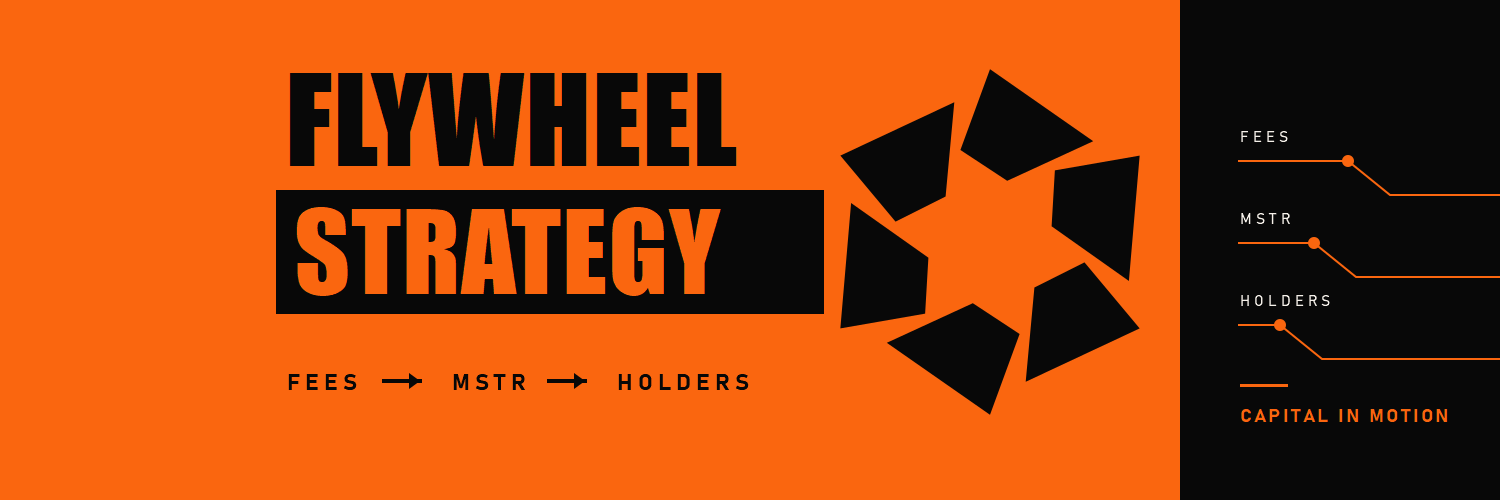
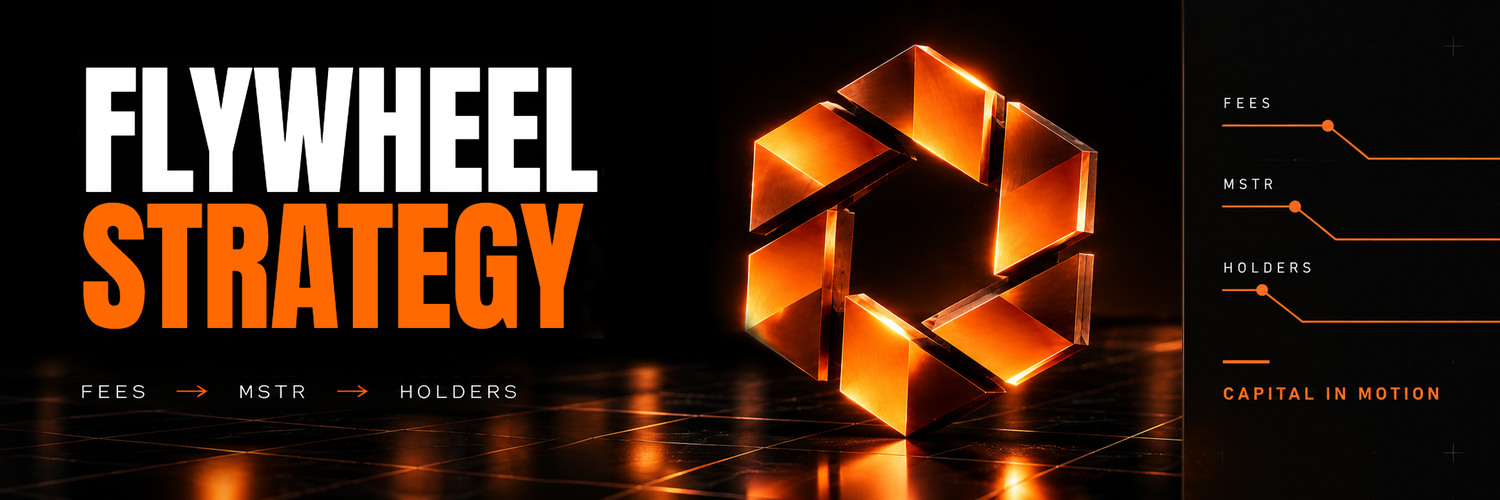
Refresh public brand visuals

diff --git a/README.md b/README.md
@@ -3,12 +3,15 @@
 </p>
 
 <p align="center">
-  <strong>CAPITAL IN MOTION</strong><br>
-  Trading fees build MSTR rewards for holders and a community-governed strategic reserve
+  <img src="assets/brand/final/x-avatar-400.png" alt="FLYWHEEL STRATEGY mark" width="104">
 </p>
 
+<h1 align="center">FLYWHEEL STRATEGY</h1>
+
 <p align="center">
-  <code>ROBINHOOD CHAIN</code>&nbsp;&nbsp;·&nbsp;&nbsp;<code>ETH PAIR</code>&nbsp;&nbsp;·&nbsp;&nbsp;<code>MSTR REWARDS</code>&nbsp;&nbsp;·&nbsp;&nbsp;<code>NO STAKING</code>
+  <strong>HOLD CAPITAL&nbsp;&nbsp;·&nbsp;&nbsp;ACCUMULATE MSTR</strong><br>
+  Trading fees continuously build MSTR rewards for passive holders and a separate holder-governed reserve<br>
+  <strong>CAPITAL IN MOTION</strong>
 </p>
 
 <p align="center">
@@ -19,7 +22,7 @@
 
 ---
 
-## ■ THE FLYWHEEL
+## THE FLYWHEEL
 
 | 01 — TRADE | 02 — ACCUMULATE | 03 — REWARD | 04 — DECIDE |
 |:--|:--|:--|:--|
@@ -30,7 +33,7 @@ TRADING FEES  ──►  MSTR  ──►  HOLDER REWARDS
                          └──►  STRATEGIC RESERVE
 ```
 
-## ■ FEE FLOW
+## FEE FLOW
 
 PONS V2 trading uses a **3% total trade fee**
 
@@ -45,7 +48,7 @@ The creator fee is divided automatically
 | Strategic reserve | **40%** | MSTR controlled through holder governance |
 | Automation | **10%** | Onchain execution and operating gas |
 
-## ■ PASSIVE HOLDER REWARDS
+## PASSIVE HOLDER REWARDS
 
 Reward weight combines token balance with exact hold time measured by the hour
 
@@ -62,7 +65,7 @@ Reward weight combines token balance with exact hold time measured by the hour
 | $1M to $5M | 30 minutes |
 | $5M and above | 60 minutes |
 
-## ■ GOVERNANCE
+## GOVERNANCE
 
 The team starts proposals and chooses the amount of reserve included in each vote
 
@@ -75,7 +78,7 @@ The team starts proposals and chooses the amount of reserve included in each vot
 
 Governance can direct the selected reserve amount toward an approved action such as token buyback, buyback and burn, buyback and lock, reserve locking or marketing funding
 
-## ■ TRANSPARENCY
+## TRANSPARENCY
 
 This repository publishes the contracts, reward calculations, governance rules, automation services, public website and tests
 
@@ -86,7 +89,7 @@ Final mainnet contract addresses and transaction links will be published after t
 - [Operations overview](docs/operations.md)
 - [Security policy](SECURITY.md)
 
-## ■ VERIFY LOCALLY
+## VERIFY LOCALLY
 
 Requirements: Node.js 20+ and npm
 
@@ -105,7 +108,7 @@ npm run web:dev
 
 Then open `http://127.0.0.1:5173`
 
-## ■ REPOSITORY MAP
+## REPOSITORY MAP
 
 | Path | Purpose |
 |:--|:--|
@@ -117,7 +120,7 @@ Then open `http://127.0.0.1:5173`
 | `test/` | Contract and system tests |
 | `config/` | Public chain, protocol and route configuration |
 
-## ■ SECURITY
+## SECURITY
 
 Secrets are not stored in this repository
 
@@ -125,7 +128,7 @@ Private keys, seed phrases, RPC credentials, server passwords, SSH private keys,
 
 `npm run security:secrets` checks publishable files locally and the same check runs on every GitHub push and pull request
 
-## ■ CURRENT STATUS
+## CURRENT STATUS
 
 The included contract, indexer and wallet tests pass and the system has been exercised with a small mainnet test deployment
 
@@ -134,6 +137,7 @@ The branded production deployment has not happened yet and the contracts have no
 ---
 
 <p align="center">
-  <strong>FLYWHEEL STRATEGY</strong><br>
+  <img src="assets/brand/final/x-avatar-400.png" alt="FLYWHEEL STRATEGY mark" width="56"><br>
+  <strong>CAPITAL IN MOTION</strong><br>
   FEES&nbsp;&nbsp;→&nbsp;&nbsp;MSTR&nbsp;&nbsp;→&nbsp;&nbsp;HOLDERS
 </p>

diff --git a/assets/brand/final/README.md b/assets/brand/final/README.md
@@ -2,7 +2,7 @@
 
 Selected direction: Route H, the Route C-dominant hybrid
 
-Primary X avatar and banner status: approved on 2026-09-12
+Primary X avatar and banner status: replaced and approved on 2026-09-17
 
 ## Sources
 
@@ -13,6 +13,8 @@ Primary X avatar and banner status: approved on 2026-09-12
 - `x-avatar-dark.svg` - dark avatar alternative
 - `wordmark.svg` - editable horizontal wordmark source
 - `x-banner.svg` - editable 1500 x 500 banner source
+- `x-avatar-current-source.jpg` - current supplied X avatar master
+- `x-banner-current-source.png` - current supplied X banner master
 - `background-system.svg` - dark reusable technical background
 - `x-post-standard.svg` - editable standard X post template
 - `x-post-announcement.svg` - editable important announcement template
@@ -38,7 +40,8 @@ Primary X avatar and banner status: approved on 2026-09-12
 - Warm white: `#F5F0E9`
 - Do not use a standalone letter C as the mark
 - Use orange and black as the dominant colors
-- The primary avatar uses the medium-weight flywheel with clear gaps between blades
+- The primary avatar uses the current faceted orange mark on pure black
+- New X content must use the cinematic black-and-orange visual language of the current banner
 - Do not place `$CAPITAL` on the X banner
 - Do not use duplicate, faded, or shadow copies behind the main mark
 - Keep the primary orange banner field clean without a translucent grid

diff --git a/assets/brand/final/BRAND-GUIDE.md b/assets/brand/final/BRAND-GUIDE.md
@@ -45,6 +45,15 @@ supporting color for readability
 
 - Primary avatar: `x-avatar-1200.png`
 - Primary banner: `x-banner-1500x500.png`
+- Current source avatar: `x-avatar-current-source.jpg`
+- Current source banner: `x-banner-current-source.png`
+- The current X visual direction was replaced and approved on 2026-09-17
+- Use the faceted orange three-dimensional mark on a pure black field as the
+  primary reference for all new X content
+- Use cinematic orange lighting, deep blacks, restrained technical lines and
+  generous negative space
+- For mechanism visuals, preserve the readable sequence
+  `FEES → MSTR → HOLDERS`
 - Do not place `$CAPITAL` on the X banner
 - `$CAPITAL` may be used in post templates and token announcements
 
